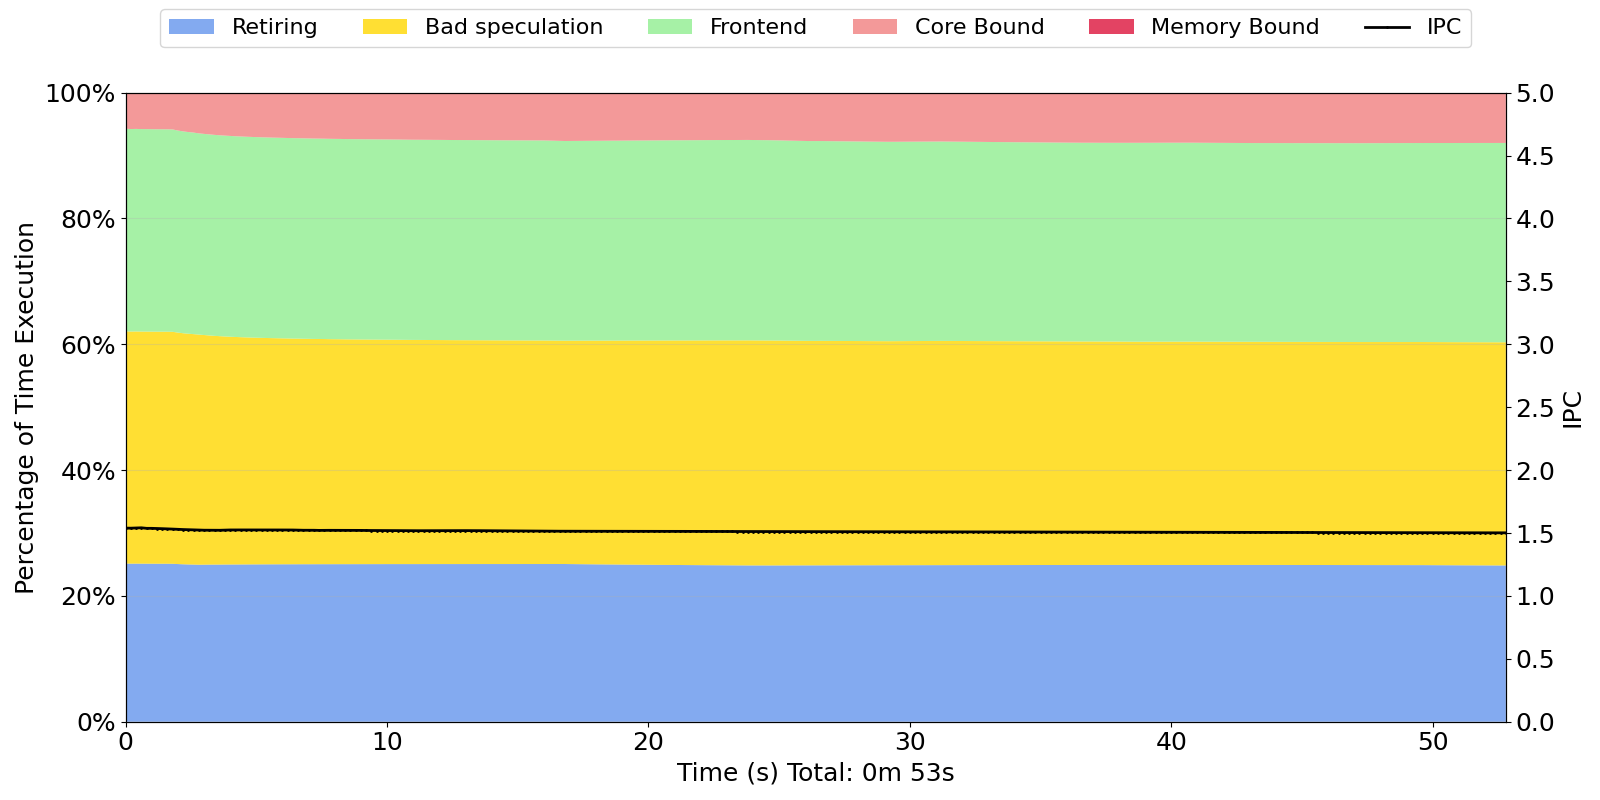
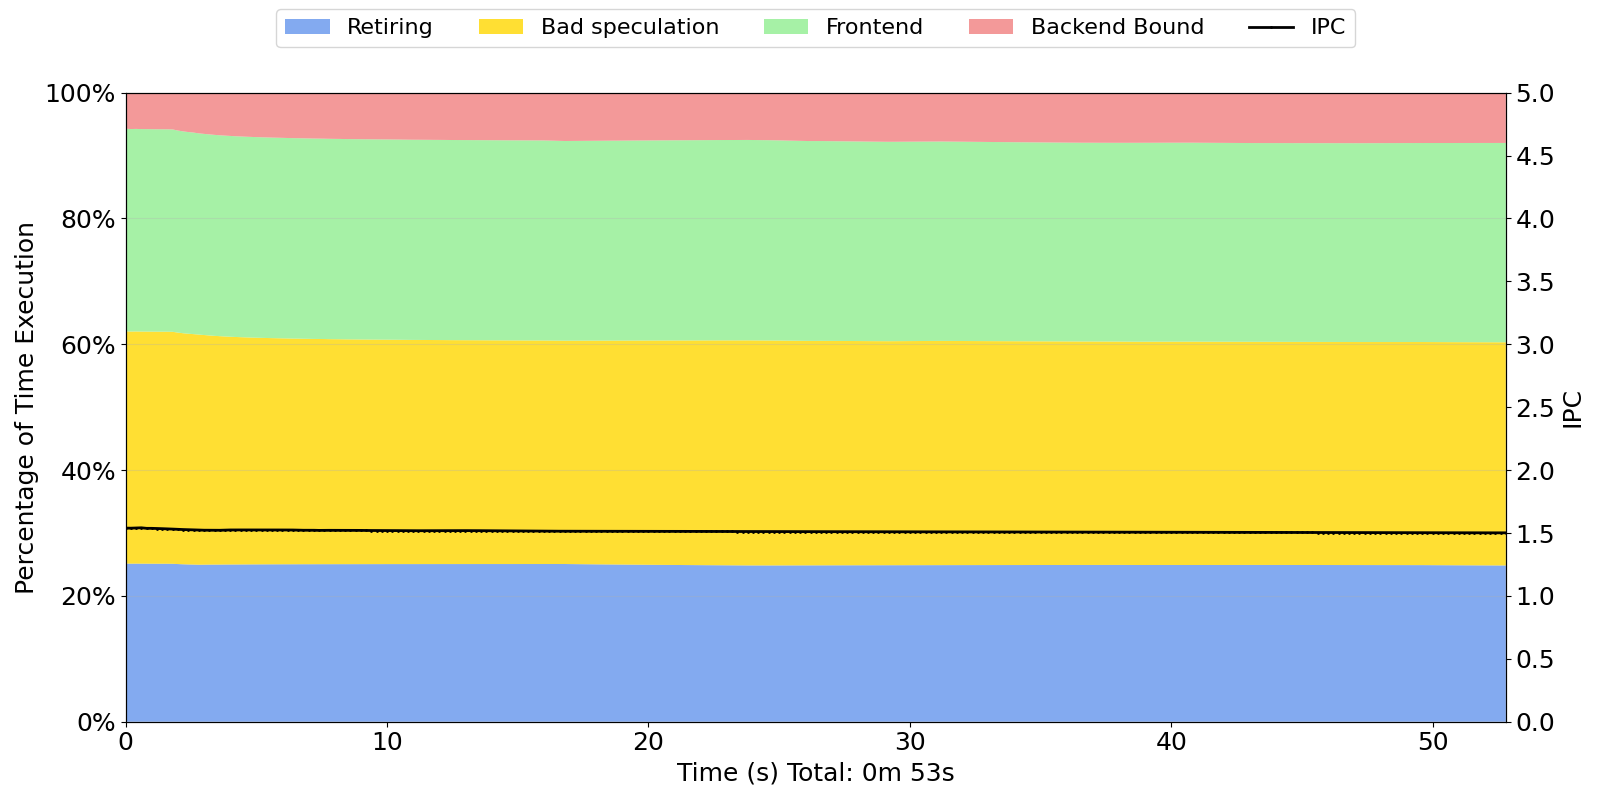
nni

Changed region(s): [[0.0938, 0.0, 0.9062, 0.0625]]

diff --git a/graficar_topdown.py b/graficar_topdown.py
@@ -55,8 +55,8 @@ def main():
             if core == 'P':
                 core_bound_plot = [x[7] for x in topdown[:last_idx + 1]]
                 memory_bound_plot = [x[8] for x in topdown[:last_idx + 1]]
-                ax1.stackplot(tiempo, retiring_plot, bad_plot, frontend_plot, core_bound_plot, memory_bound_plot, colors=color_map,
-                                labels=["Retiring", "Bad speculation", "Frontend", "Core Bound", "Memory Bound"], alpha=0.8)
+                ax1.stackplot(tiempo, retiring_plot, bad_plot, frontend_plot, backend_bound_plot, colors=color_map,
+                                labels=["Retiring", "Bad speculation", "Frontend","Backend Bound"], alpha=0.8)
             else:
                 ax1.stackplot(tiempo, retiring_plot, bad_plot, frontend_plot, backend_bound_plot, colors=color_map,
                                 labels=["Retiring", "Bad speculation", "Frontend", "Backend Bound"], alpha=0.8)
